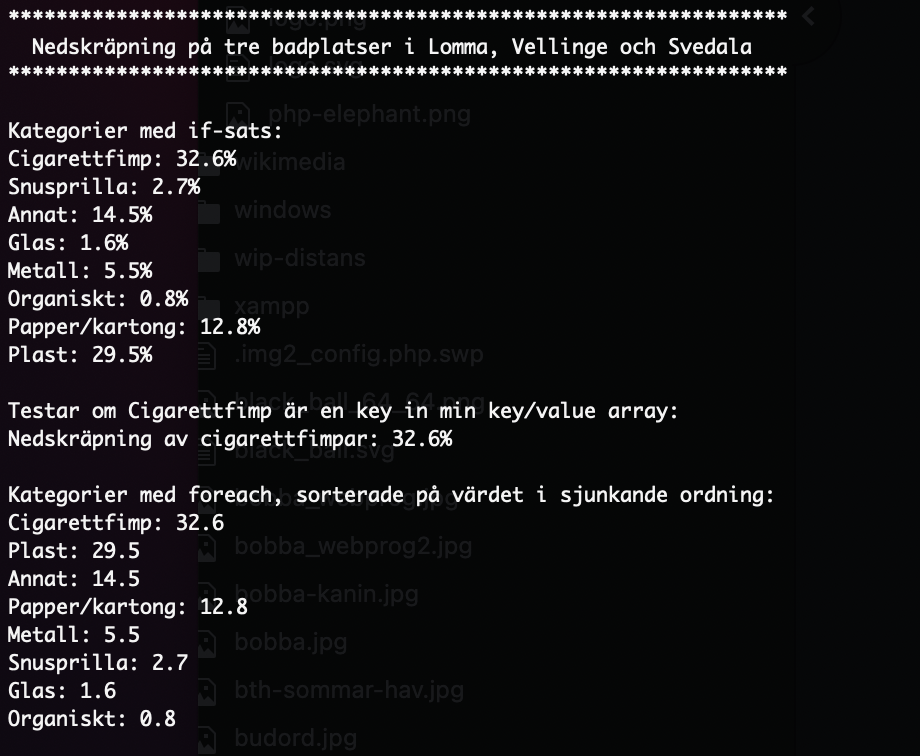
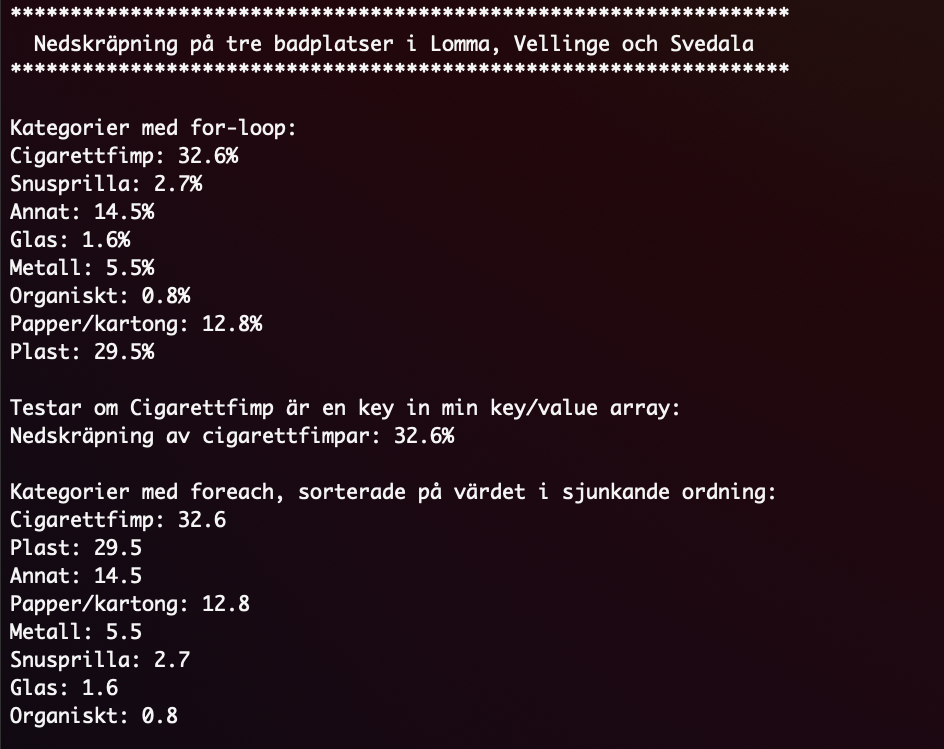
Uppdaterade php uppg 6. Stavfel sqlite.

diff --git a/content/kunskap/kom-igang-med-sqlite-och-php-pdo-v2.md b/content/kunskap/kom-igang-med-sqlite-och-php-pdo-v2.md
@@ -59,7 +59,7 @@ Prepared statements och SQL injections {#sqlinjections}
 
 En feature som stöds av många databaser är "Prepared Statements". Prepared statements har ett säkert sätt att hantera argument, ett sätt som undviker säkerhetshål som SQL injections.
 
-Läs det snabbt det inledande stycket om [prepared statements och studera översiktligt exemplen](http://www.php.net/manual/en/pdo.prepared-statements.php). Där får du en kort introduktion till hur prepared statements fungerar.
+Läs snabbt det inledande stycket om [prepared statements och studera översiktligt exemplen](http://www.php.net/manual/en/pdo.prepared-statements.php). Där får du en kort introduktion till hur prepared statements fungerar.
 
 Låt oss säga några ord om säkerhetshål och SQL injections innan vi fortsätter.
 
@@ -149,7 +149,7 @@ Det bör se ut ungefär så här när du kör skriptet.
 
 [FIGURE src=image/snapvt15/pdo20-connect.png?w=w3 capition="Utskrift av resultatet från databasfrågan."]
 
-Svaret kommer som en array, där varje rad i arrayen är en rad från databasen. Det är en array som innehåller arrayer. Man kallar det även för tvådimensionell array.
+Svaret kommer som en array, där varje rad i arrayen är en rad från databasen. Det är en array som innehåller arrayer. Man kallar det även för en tvådimensionell array.
 
 Studera källkoden i exemplet och försök att skapa dig en mental bild av flödet i PHP-koden. Det som sker är följande.
 
@@ -163,7 +163,7 @@ Studera källkoden i exemplet och försök att skapa dig en mental bild av flöd
 
 Kopiera koden till din egna fil och gör ett eget exempel. Testa så att det fungerar. Detta är grunden i att koppla PHP mot en databas. Inte så svårt va?
 
-Databasfilen ligger i underkatalogen `db` och sökvägen dit är alltså `db/jetty.sqlite`.
+Databasfilen ligger i underkatalogen `db` och sökvägen dit är alltså `db/boatclub.sqlite`.
 
 En DSN är en sträng som innehåller informationen för att koppla dig till databasen. En DSN ser olika ut för varje databas. I vårt fall består den av strängen `sqlite:` följt av filens sökväg.
 

diff --git a/content/uppgift/programmera-med-php.md b/content/uppgift/programmera-med-php.md
@@ -323,7 +323,7 @@ Uppgift 6: Arrayer med strängar {#u6}
 
 32,6% av nedskräpningen på stränderna var cigarettfimpar medan den är uppmätt till 64.5% i tätort, 49.9% i förort och 43.4% i parkmiljö. Det tar cirka 1-5 år för naturen att sönderdela en cigarettfimp till mikroplast (fimpens filter innehåller plast). Mikroplast kan ta 100 år innan den försvinner, om den ens gör det. Allt enligt "Håll Sverige rent".
 
-Ta reda på vad nedskräpningen på stränderna beror på, till exempel att 32.6% är cigarettfimpar. Återanvänd arrayen med siffrorna från uppgift 5. Kopiera strängen nedan och lägg i en ny array med orsaken. Iterera över en av arrayerna för att skapa första utskriften.
+Ta reda på vad nedskräpningen på stränderna beror på, till exempel att 32.6% är cigarettfimpar. Återanvänd arrayen med siffrorna från uppgift 5. Kopiera strängen nedan och lägg i en ny array med orsaken. Iterera över en av arrayerna med en for-loop för att skapa första utskriften.
 
 `"Cigarettfimp Snusprilla Annat Glas Metall Organiskt Papper/kartong Plast"`
 

diff --git a/content/uppgift/1255_bygg-en-databasdriven-terminalklient-med-php-och-sql.md b/content/uppgift/1255_bygg-en-databasdriven-terminalklient-med-php-och-sql.md
@@ -70,7 +70,7 @@ Skapa en fil `src/database.php` där du placerar kod för att koppla dig mot dat
 
 Detta är en god struktur och separation av din kod. Du kommer märka att denna strukturen gör det enklare att återanvända kod från denna uppgiften till nästkommande uppgift där du skall bygga en webbklient mot databasen.
 
-I din `config.php` sparar du dina DSN som berättar hur man kopplar sig till d atabasen. Du kan ha flera DSN och du kan koppla dig till flera databaser.
+I din `config.php` sparar du dina DSN som berättar hur man kopplar sig till databasen. Du kan ha flera DSN och du kan koppla dig till flera databaser.
 
 En DSN är en sträng och den kan definieras som en konstant och se ut så här.
 
